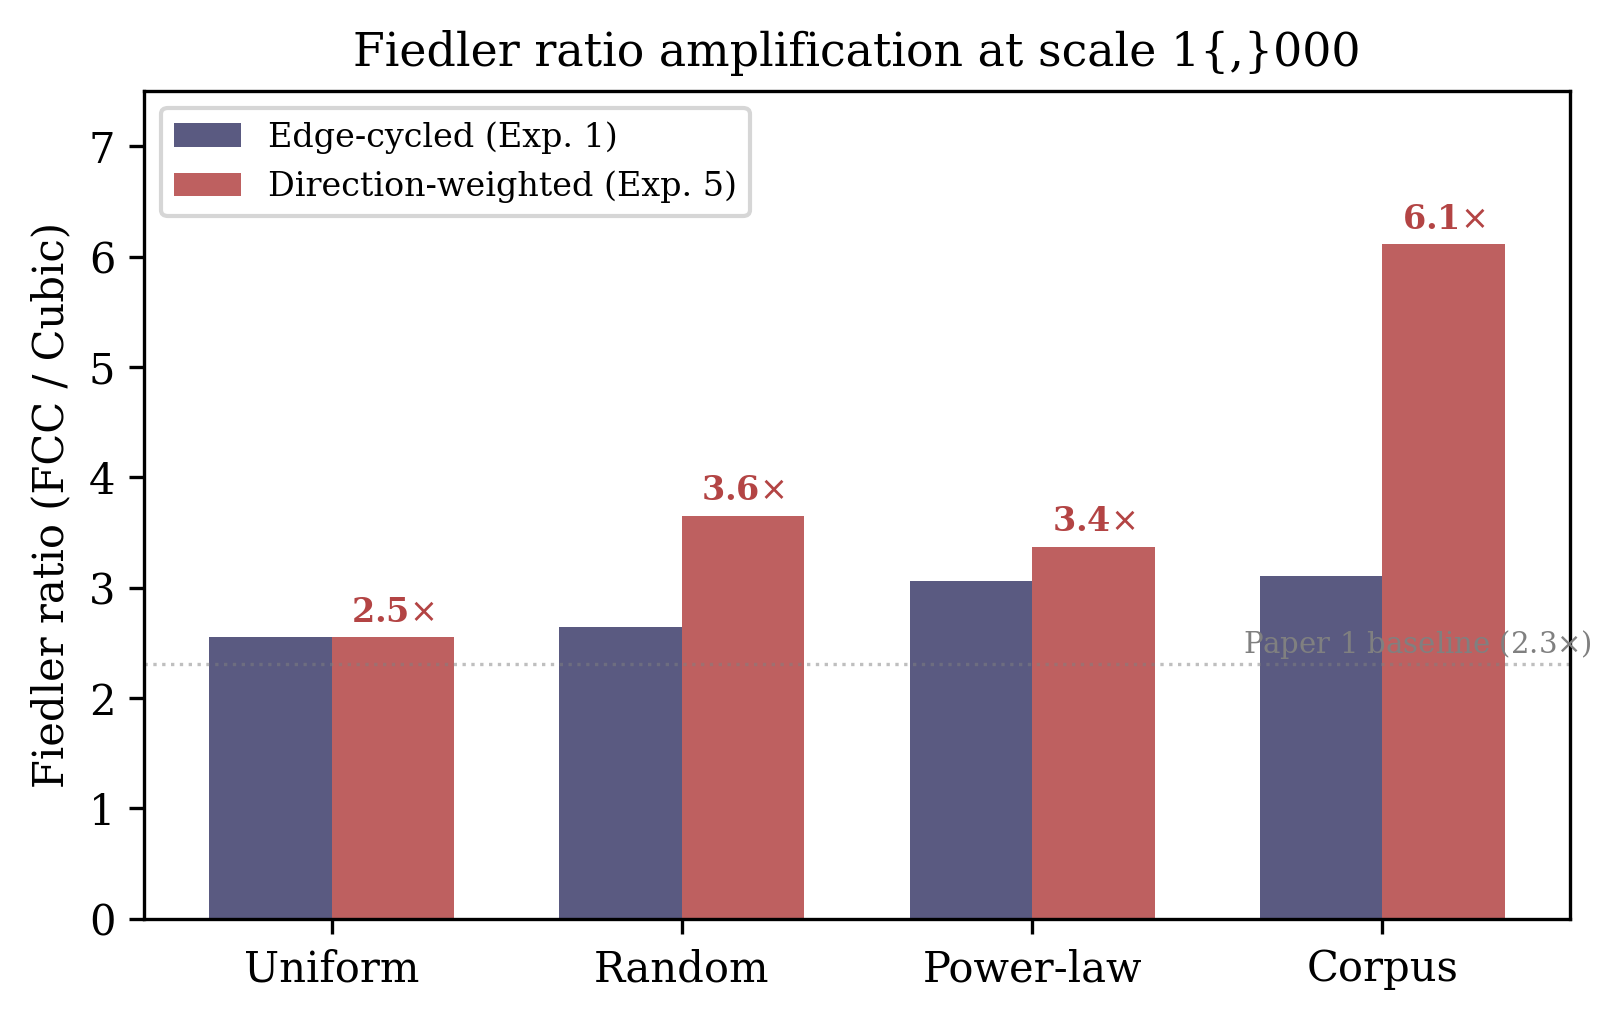
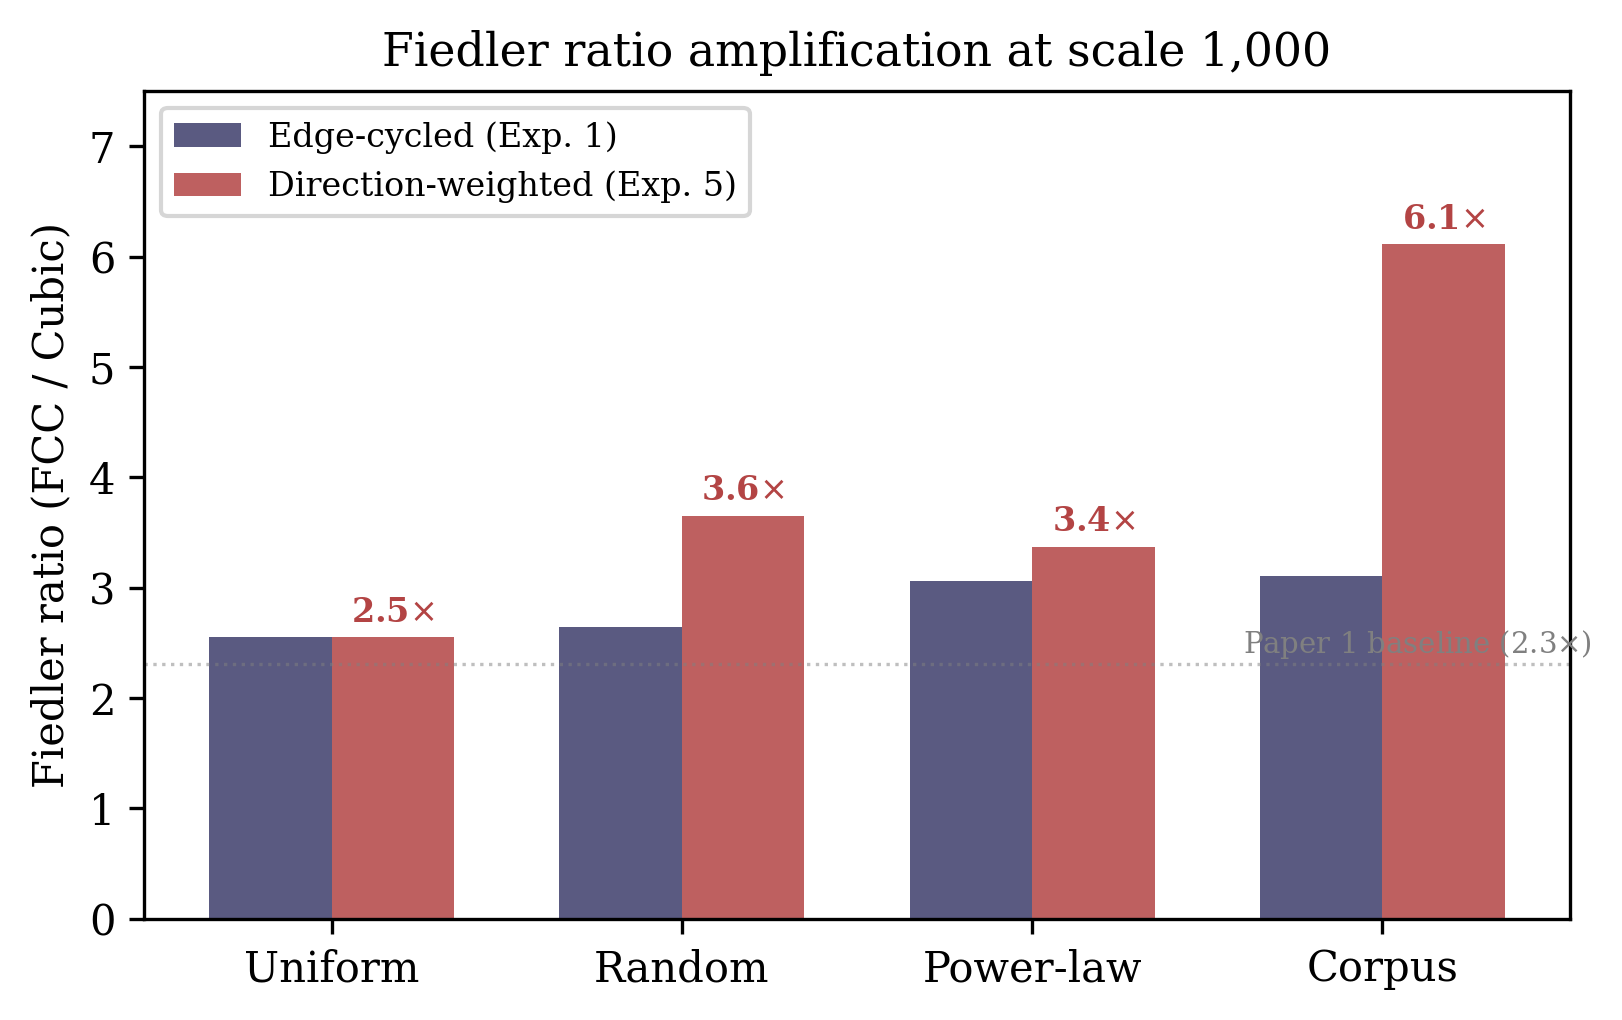
Add dependency diagram, fix figure titles, align caption conventions
- Add TikZ paper-pair dependency diagram (Figure 1) in Introduction
- Fix Fig 3 title: LaTeX-escaped "1{,}000" → proper "1,000" in matplotlib
- Fix Fig 6 title: "universal" → "consistent" (matches softened language)
- Fix Fig 4 caption: "(FCC/SC)" → "(SC/FCC rounds, >1 = FCC faster)"
  to match Ratio Conventions subsection
- Regenerate all figures from corrected generation script

Changed region(s): [[0.2158, 0.0304, 0.8323, 0.0912]]

diff --git a/paper/figures/generate_paper2_figures.py b/paper/figures/generate_paper2_figures.py
@@ -72,7 +72,7 @@ def generate_figure3(save_path):
     ax.text(3.6, 2.31 + 0.1, 'Paper 1 baseline (2.3$\\times$)',
             fontsize=7, color='grey', ha='right')
     ax.legend(fontsize=8, loc='upper left')
-    ax.set_title('Fiedler ratio amplification at scale 1{,}000', fontsize=11)
+    ax.set_title('Fiedler ratio amplification at scale 1,000', fontsize=11)
 
     plt.tight_layout()
     fig.savefig(save_path, dpi=300)
@@ -183,7 +183,7 @@ def generate_figure5(save_path):
 def generate_figure6(save_path):
     """Horizontal bar chart: corpus Fiedler percentile across 5 graphs (Exp 7).
 
-    Shows universality of corpus Fiedler suppression.
+    Shows consistency of corpus Fiedler suppression across topologies.
     """
     graphs = ['Random G(14,24)', '3-regular (16V)', 'K(4,6) (10V)',
               'RD (14V)', 'Cuboctahedron (12V)']
@@ -201,7 +201,7 @@ def generate_figure6(save_path):
     ax.set_yticks(y_pos)
     ax.set_yticklabels(graphs, fontsize=9)
     ax.set_xlabel('Corpus Fiedler percentile (vs. 10K random weights)')
-    ax.set_title('Fiedler suppression is universal across 24-edge graphs', fontsize=11)
+    ax.set_title('Fiedler suppression is consistent across 24-edge graphs', fontsize=11)
     ax.set_xlim(0, 8)
     ax.invert_yaxis()
 
